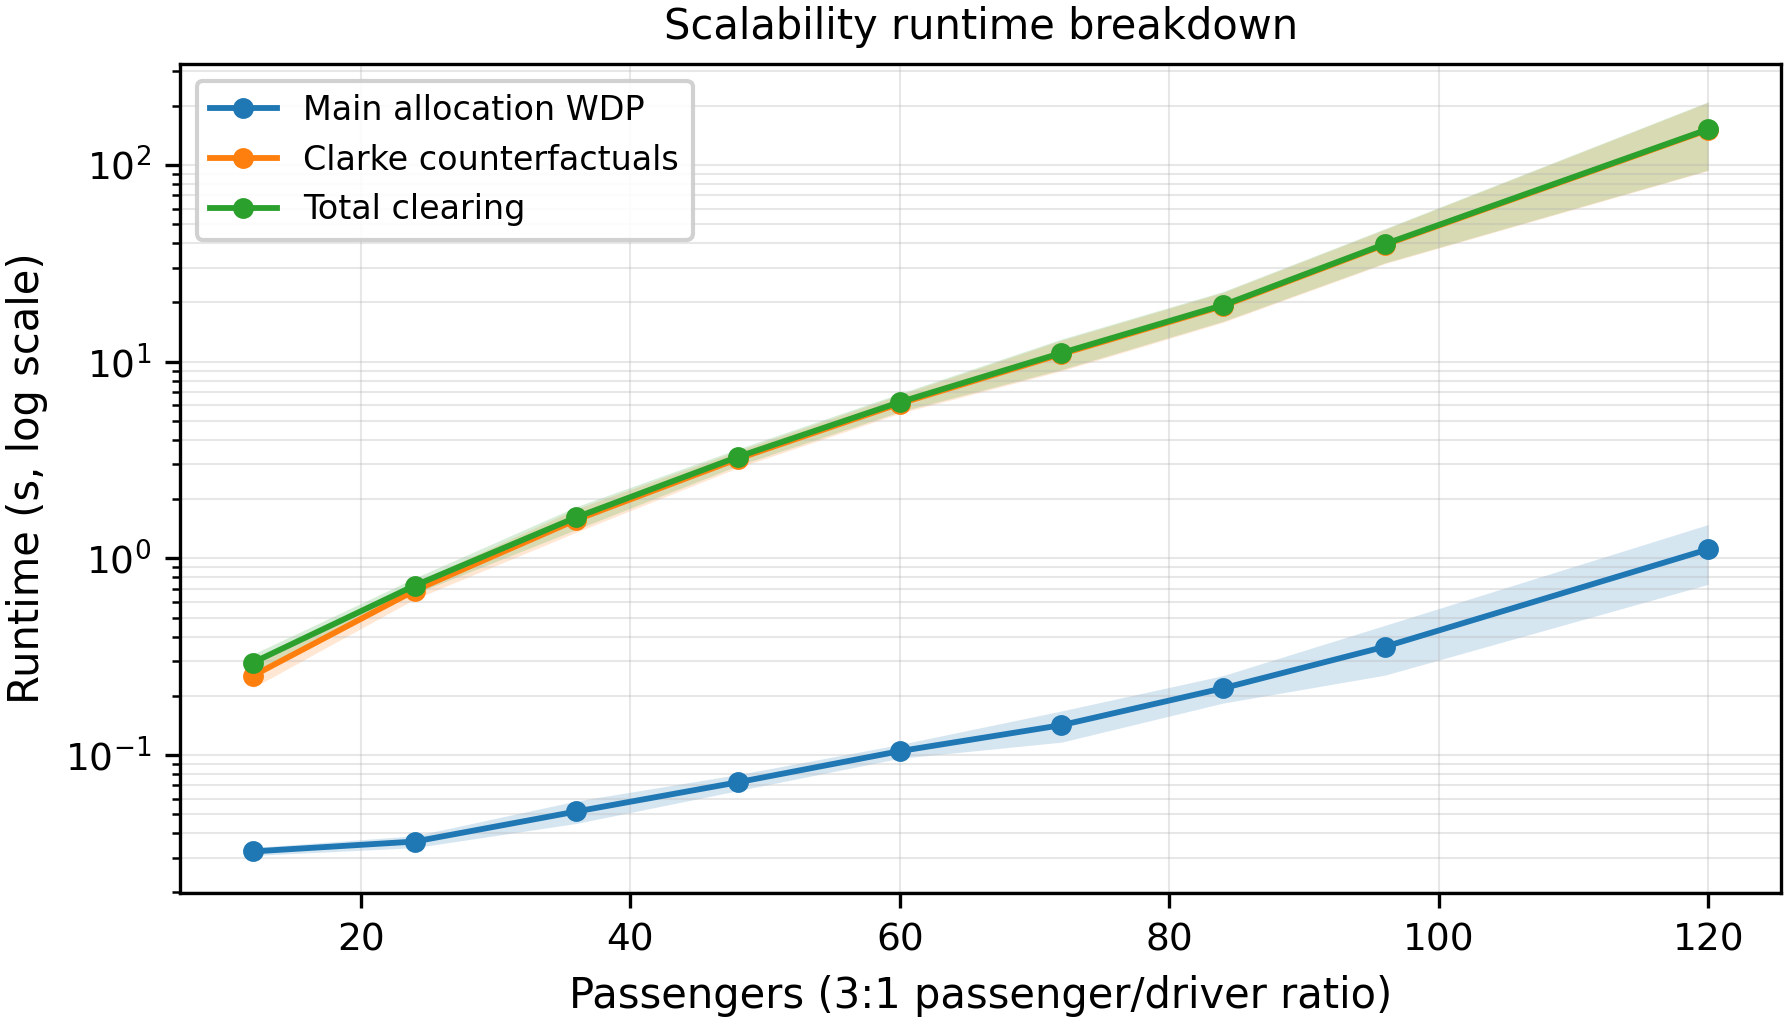
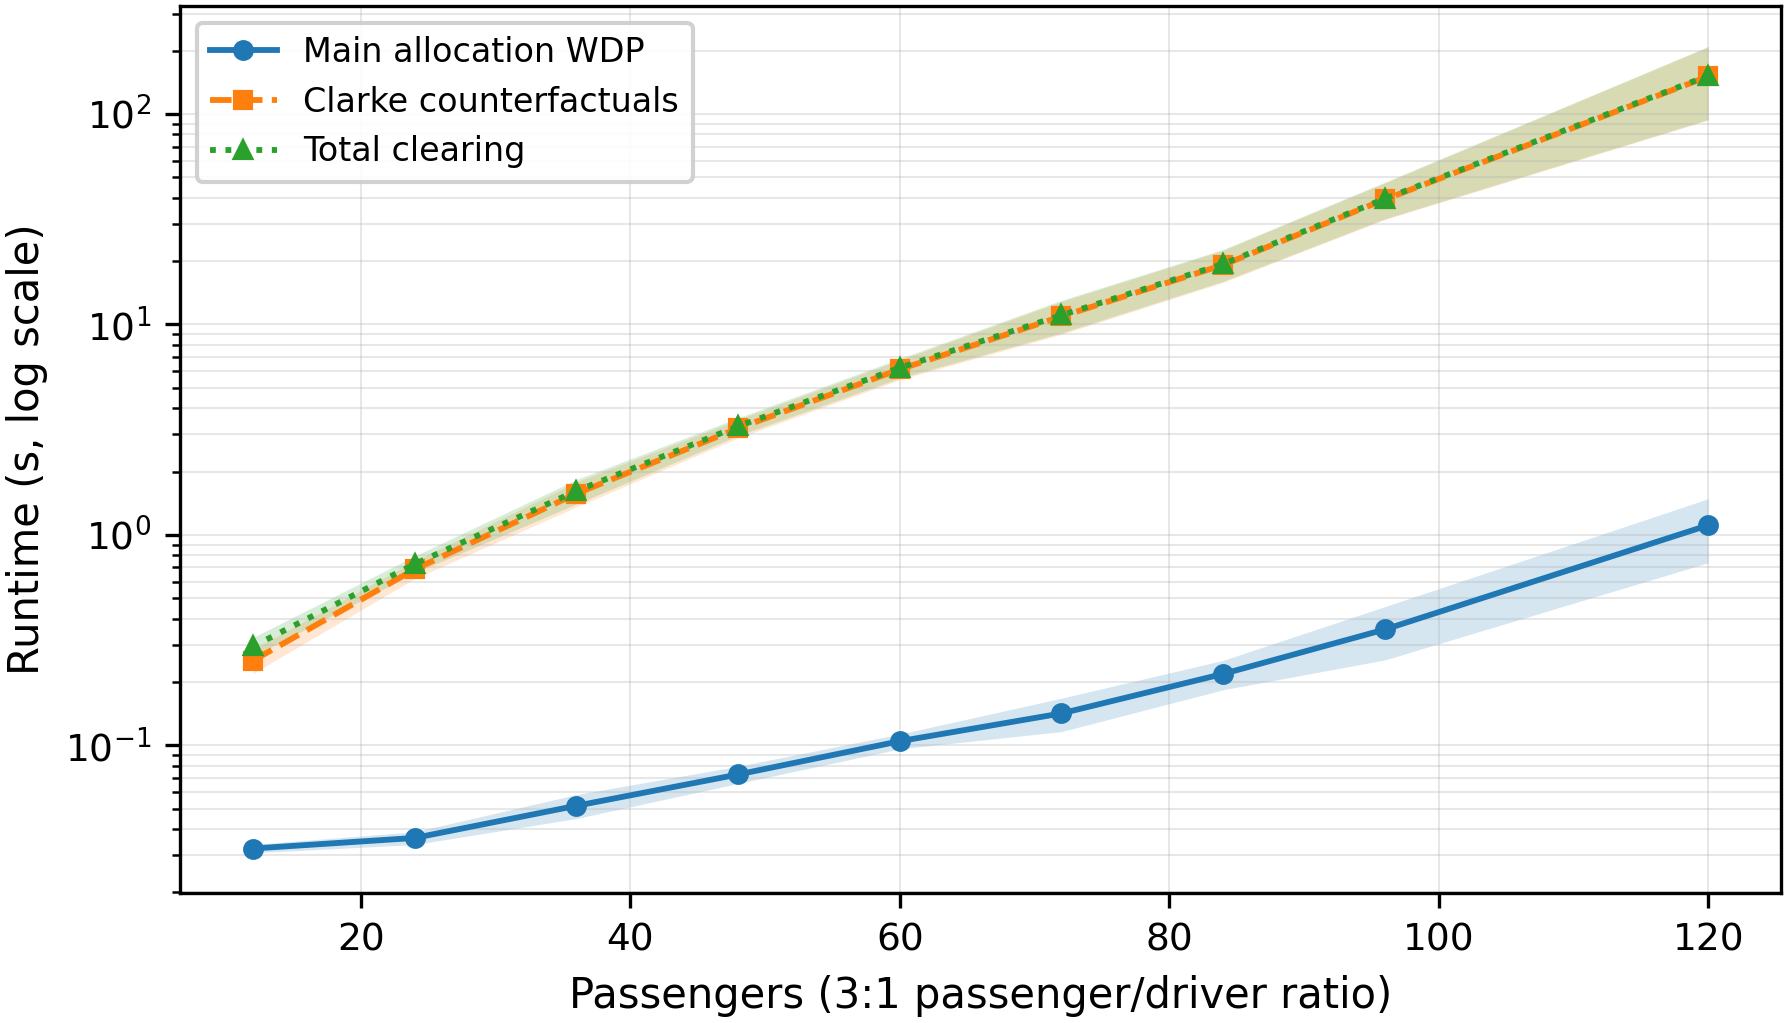
Fix budgetfig.py encoding and path; regenerate Fig. 7 and Fig. 4 at IEEE column size

diff --git a/make_scalability_figure.py b/make_scalability_figure.py
@@ -82,6 +82,13 @@ def load_summary() -> pd.DataFrame:
     return summary
 
 
+STYLES = {
+    "main_wdp_time_s": {"marker": "o", "linestyle": "-"},
+    "payment_overhead_s": {"marker": "s", "linestyle": "--"},
+    "full_clear_time_s": {"marker": "^", "linestyle": ":"},
+}
+
+
 def make_figure(summary: pd.DataFrame) -> None:
     x = summary["n_passengers"].to_numpy(dtype=float)
 
@@ -90,7 +97,18 @@ def make_figure(summary: pd.DataFrame) -> None:
     for stem, label, color in SERIES:
         median = summary[f"{stem}_median"].to_numpy(dtype=float)
         iqr = summary[f"{stem}_iqr"].to_numpy(dtype=float)
-        ax.plot(x, median, marker="o", markersize=4, color=color, label=label)
+        # Clarke-counterfactual and total-clearing curves nearly coincide, so
+        # they need distinct dash patterns and markers to stay separable.
+        style = STYLES[stem]
+        ax.plot(
+            x,
+            median,
+            marker=style["marker"],
+            markersize=4,
+            linestyle=style["linestyle"],
+            color=color,
+            label=label,
+        )
         # Medians with interquartile bands: runtime distributions are skewed by
         # occasional slow solver starts, which distort means and their intervals.
         # The lower edge is clipped because the vertical axis is logarithmic.
@@ -101,7 +119,6 @@ def make_figure(summary: pd.DataFrame) -> None:
     ax.set_yscale("log")
     ax.set_xlabel("Passengers (3:1 passenger/driver ratio)")
     ax.set_ylabel("Runtime (s, log scale)")
-    ax.set_title("Scalability runtime breakdown")
     ax.grid(True, which="both", alpha=0.3)
     ax.legend(loc="upper left")
 

diff --git a/figure_style.py b/figure_style.py
@@ -35,6 +35,7 @@ FIGSIZE = {
     "passenger_utility_vs_violations": (5.50, 4.10),
     "real_welfare_vs_radius_violations": (5.50, 4.10),
     "real_passenger_utility_vs_violations": (5.50, 4.10),
+    "platform_budget_market_pressure": (4.60, 4.10),
 }
 
 
